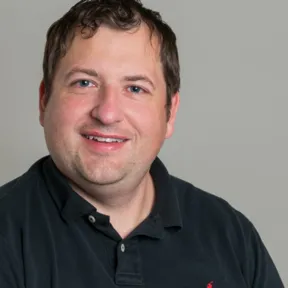
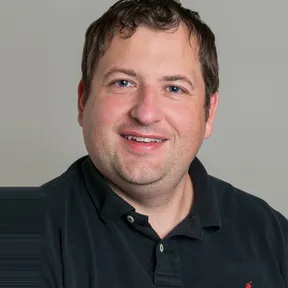
Address final lab website review feedback
People mapping (per Eric): Noémie Claret gains the computational-imaging
tag (co-author of the wavelet/crystallography paper linked from Fast
Algorithms) so she appears under that area; Jonathan Thompson gains
agentic-ai so he appears under AI Agents for Science.

Research collaborators: areas can now list people who work in the area
without being lab members (no roster entry, no member page); their card
links to an external profile. Hippolyte Wallaert (Master's student, ICME)
is added to Language-Model Interpretability and Alignment this way, with
his public GitHub avatar rehosted as a 288px WebP.

Søren Taverniers' portrait is re-cropped so his face is centred (the
original sat well left of centre); full frame of the original with the
plain backdrop extended on the left, no retouching.

Homepage whitespace: after an audit of the spacing rhythm, two outlier
rules are corrected — the hero no longer grows with the viewport (capped
at 640px) and sections no longer force a full-viewport minimum height.
Section padding and all other spacing are unchanged.

diff --git a/src/data/researchAreas.ts b/src/data/researchAreas.ts
@@ -15,6 +15,7 @@
 // `pills` lists the matching entries in src/data/researchStreams.ts (the same
 // tags used on people's profiles) — an area can span more than one pill, and
 // every pill in the list is used to find people who work in this area.
+// `collaborators` adds people who work in the area but are not lab members.
 // `description` (the short homepage row text) is the first sentence of the
 // first section, taken verbatim.
 
@@ -31,11 +32,25 @@ export interface ResearchSection {
   links: ResearchLink[];
 }
 
+// Someone who works in an area without being a lab member: no roster entry,
+// no member page. Shown in "People in this area" with the same card as
+// members, linking to an external profile instead (LinkedIn by convention).
+export interface ResearchCollaborator {
+  name: string;
+  /** Context such as "Master's Student, ICME"; shown as the card's tooltip. */
+  role?: string;
+  /** External profile the card links to. */
+  url: string;
+  /** Optional /people/… path under public/; initials are shown otherwise. */
+  photo?: string;
+}
+
 interface ResearchAreaInput {
   title: string;
   slug: string;
   sections: ResearchSection[];
   pills: string[];
+  collaborators?: ResearchCollaborator[];
 }
 
 export interface ResearchArea extends ResearchAreaInput {
@@ -123,6 +138,16 @@ export const researchAreas: ResearchArea[] = [
       },
     ],
     pills: ["interpretability", "ai-safety"],
+    // Not a lab member; listed here at Eric's request (2026-09-16). Photo is
+    // his public GitHub avatar (github.com/h1ppox99), rehosted as 288px WebP.
+    collaborators: [
+      {
+        name: "Hippolyte Wallaert",
+        role: "Master's Student, ICME",
+        url: "https://www.linkedin.com/in/hippolyte-wallaert-617449297",
+        photo: "/people/hippolyte-wallaert.webp",
+      },
+    ],
   },
   {
     title: "Scientific Machine Learning for Faster Simulation and Physical Insight",

diff --git a/src/styles/global.css b/src/styles/global.css
@@ -58,10 +58,15 @@ a {
   padding: 0 24px;
 }
 
+/* Sections size to their content plus 88px padding. They used to be at
+   least one viewport tall with the content centered, which on tall monitors
+   left empty bands far larger than the page's spacing rhythm (e.g. 285px
+   above and below the Research rows on a 1440px-tall display). Removed
+   2026-09-16 after Eric's "too much white space"; the padding itself is
+   unchanged. */
 .section {
   padding: 88px 0;
-  min-height: 100vh;
-  min-height: 100dvh;
+  min-height: 0;
   display: flex;
   align-items: center;
   scroll-margin-top: 76px;
@@ -71,9 +76,14 @@ a {
   width: 100%;
 }
 
+/* The hero still opens as a tall panel, but capped: it fills the viewport
+   below the nav on short windows and stops at 640px on taller ones. It was
+   always viewport height — 824px on a 900px-tall laptop, 1364px on a
+   1440px-tall display — leaving ~300–560px of empty space above and below
+   242px of text, the one clear outlier in the page's spacing (2026-09-16). */
 .hero {
-  min-height: calc(100vh - 76px);
-  min-height: calc(100dvh - 76px);
+  min-height: min(calc(100vh - 76px), 640px);
+  min-height: min(calc(100dvh - 76px), 640px);
 }
 
 .hero__content {

diff --git a/src/content/people/soren-taverniers.md b/src/content/people/soren-taverniers.md
@@ -24,4 +24,11 @@ He has subject-matter expertise in uncertainty quantification, machine
 learning (including operator learning and graph neural networks), and
 multi-physics modeling, and has published 10+ journal papers in high-impact
 venues spanning computational physics and numerical methods.
-<!-- Source: bio provided directly by Søren -->
+<!-- Source: bio provided directly by Søren.
+     Photo: the portrait from his site (chameleon20.github.io/images/profile.png,
+     same image as the original in this repo); re-cropped 2026-09-16 at Eric's
+     request to center the face. The original is cropped at the top of his
+     hair, so headroom cannot be added; the 288×288 WebP (q80, like the other
+     photos) is a 94% square from the top of the 1500px original with the
+     plain backdrop extended ~11% on the left (edge column replicated) so his
+     face sits on the centre line. Person untouched. -->

diff --git a/src/content/people/noemie-claret.md b/src/content/people/noemie-claret.md
@@ -2,7 +2,7 @@
 name: Noémie Claret
 role: PhD Student, ICME
 category: phd
-pills: [ml-science-engineering, interpretability]
+pills: [ml-science-engineering, interpretability, computational-imaging]
 photo: /people/noemie-claret.webp
 links:
   website: https://www.linkedin.com/in/noemie-claret/
@@ -17,4 +17,7 @@ for crystallography, and is co-advised by Eric Darve and Frederic
 Poitevin. She has a background in mathematics and her interests lie
 broadly at the intersection of statistics, optimization, and scientific
 machine learning.
-<!-- Bio provided by Kirill on Noémie's behalf, 2026-08-20. -->
+<!-- Bio provided by Kirill on Noémie's behalf, 2026-08-20.
+     computational-imaging tag added 2026-09-16 at Eric's request (she is a
+     co-author of the LCLS wavelet/crystallography image-segmentation paper,
+     arXiv:2605.19199, linked from the Fast Algorithms research area). -->

diff --git a/src/content/people/jonathan-thompson.md b/src/content/people/jonathan-thompson.md
@@ -2,7 +2,7 @@
 name: Jonathan Thompson
 role: PhD Student, ICME
 category: phd
-pills: [ml-science-engineering]
+pills: [ml-science-engineering, agentic-ai]
 photo: /people/jonathan-thompson.webp
 sourceUrl: https://www.siam.org/publications/siam-news/authors/jonathan-thompson/
 placeholder: false
@@ -14,4 +14,6 @@ University of Colorado Colorado Springs in 2024.
 <!-- Sources: https://www.siam.org/publications/siam-news/authors/jonathan-thompson/,
      https://icme.stanford.edu/research-impact/student-research/phd-research-spotlights
      ("Learning to Lift: Physics-Aware Digital Twins for 3D-printed Metal Parts",
-     advisor listed there: Daniel Tartakovsky) -->
+     advisor listed there: Daniel Tartakovsky)
+     agentic-ai tag added 2026-09-16 at Eric's request so Jonathan is listed
+     under "AI Agents for Science"; the bio above predates that work. -->
